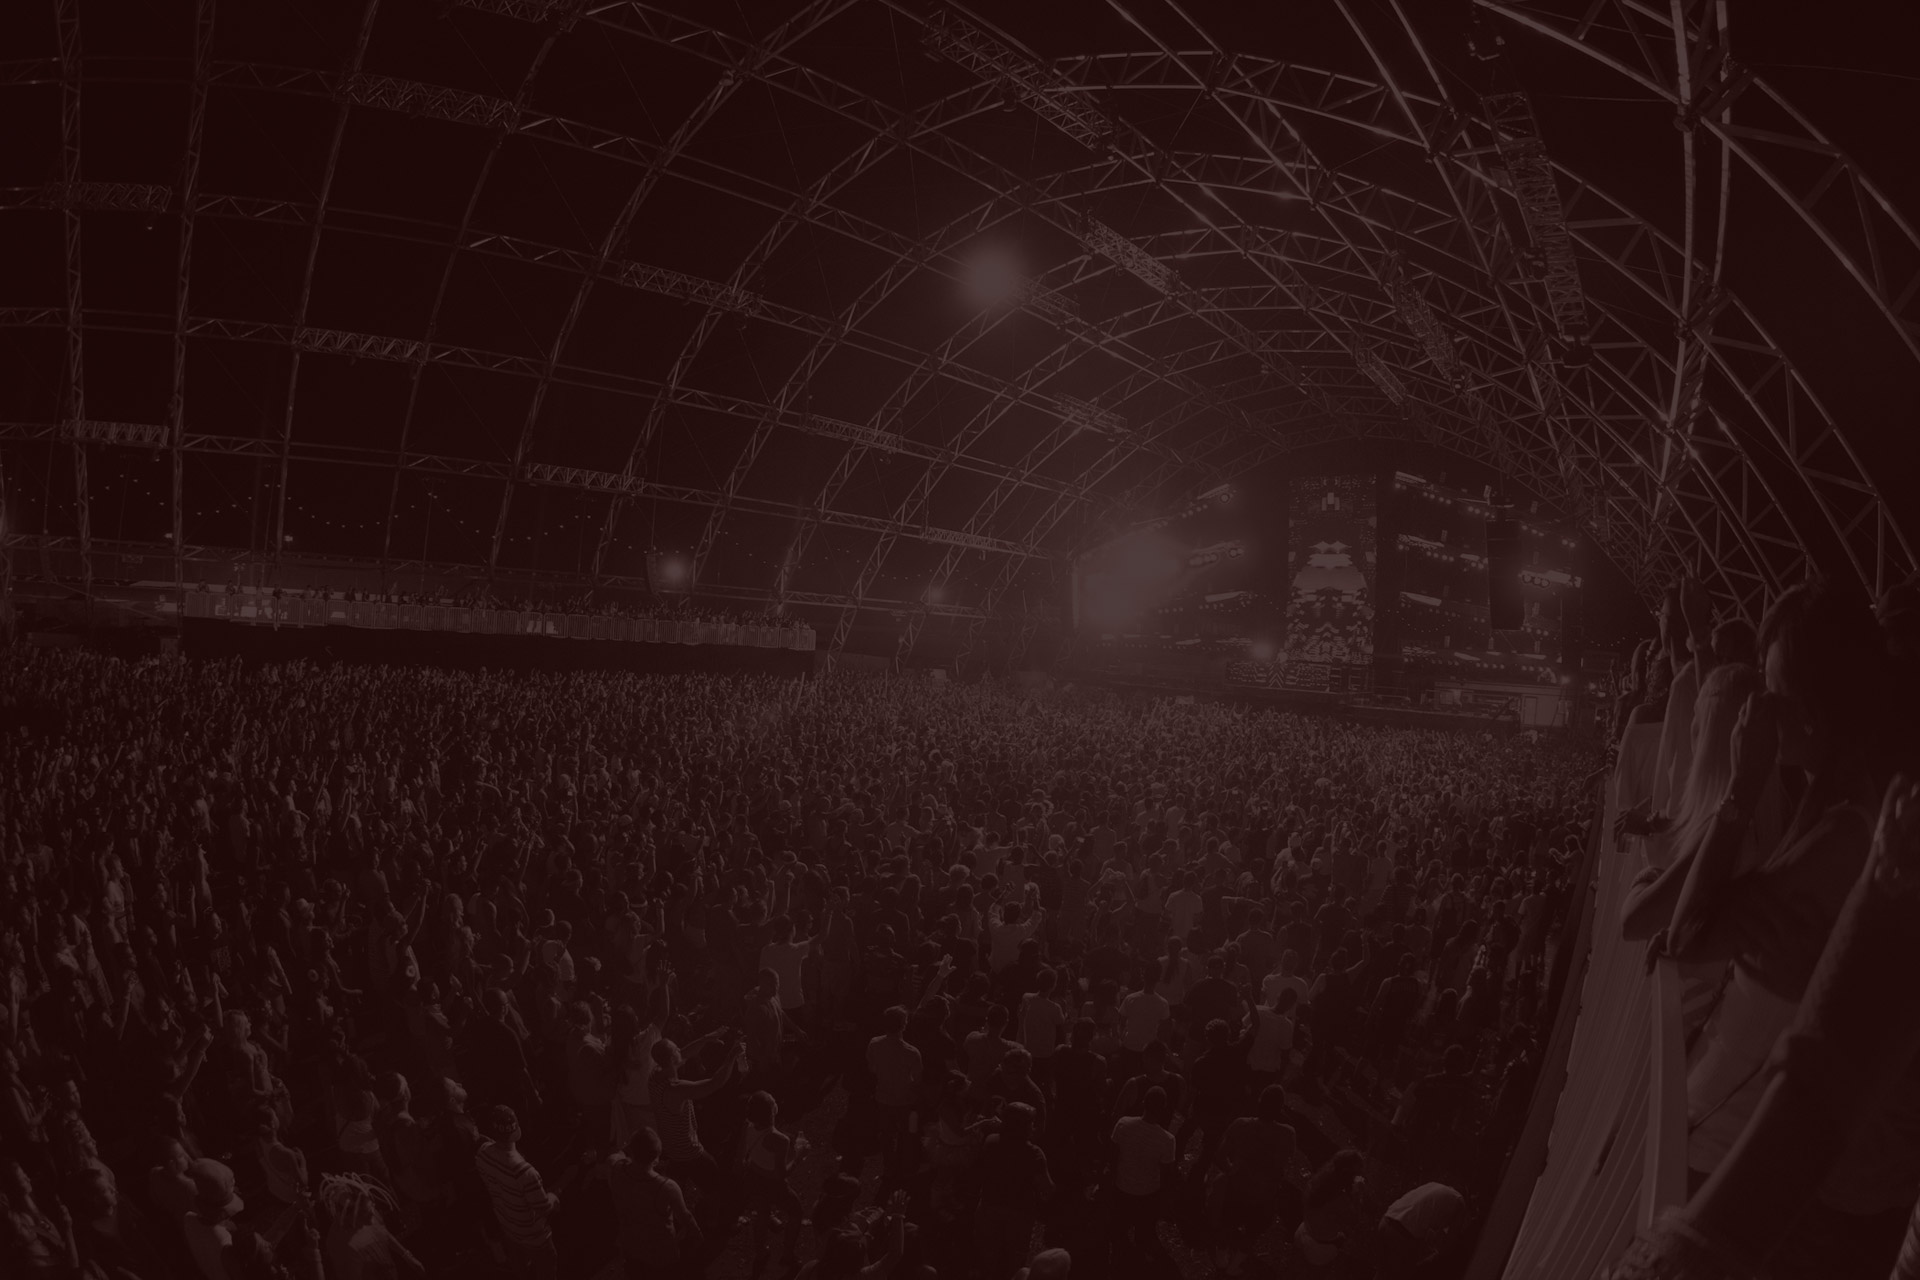
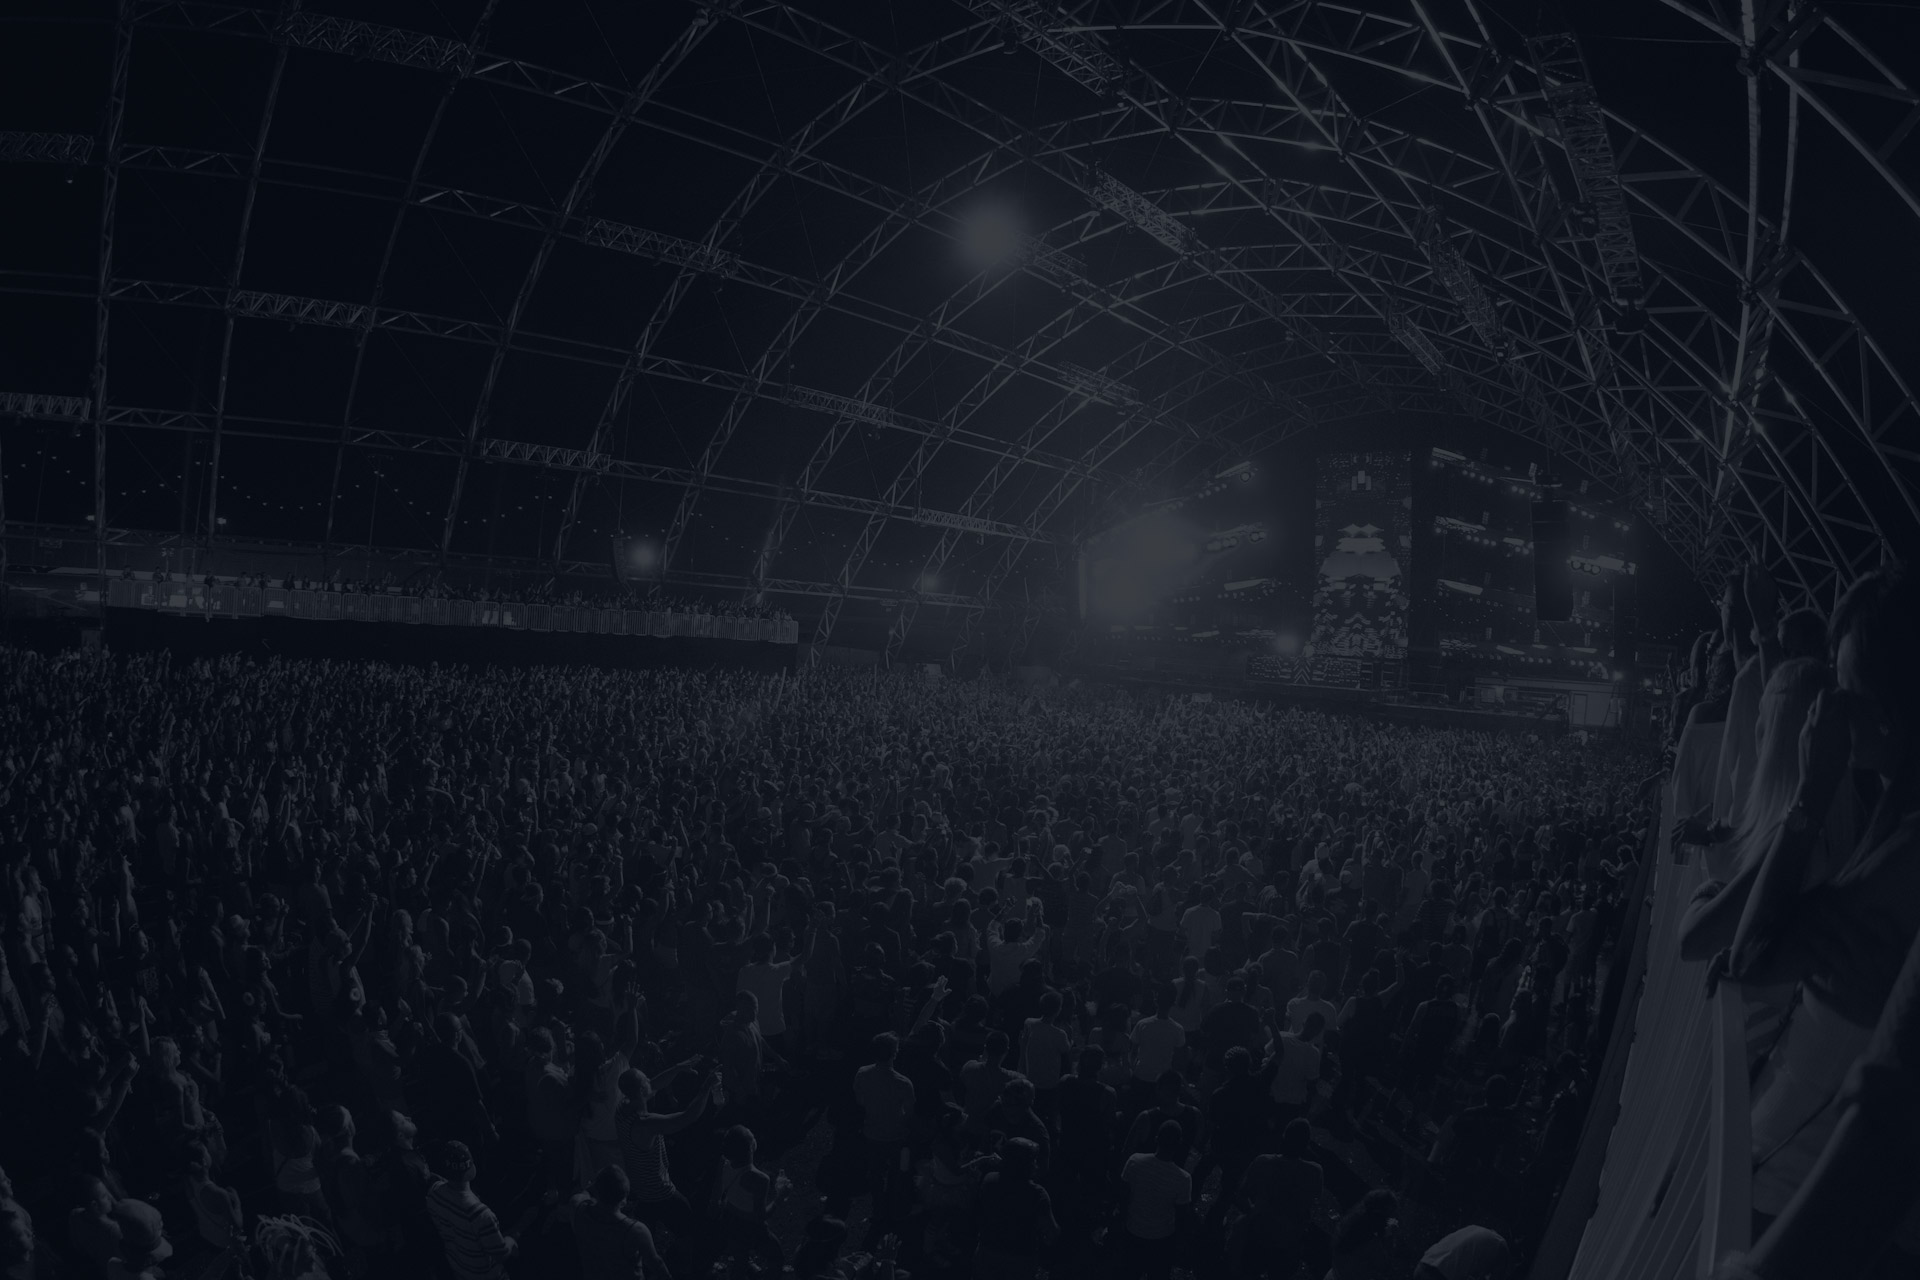
Some color changes to EPK

diff --git a/css/style.css b/css/style.css
@@ -119,7 +119,7 @@ font-size: 40px;
 	font-weight: 100;
 }
 .epk .epk_lower .epk_support {
-	background: #ebcb6a;
+	background: #ecc817;
 	padding: 40px;
 }
 .epk .epk_lower .epk_support h3 {
@@ -132,7 +132,7 @@ font-size: 40px;
 }
 .epk .epk_lower .epk_heads {
 	padding: 60px 0px;
-	background: rgba(46,16,14,0.8);
+	background: rgba(7,12,19,0.8);
 }
 .epk .epk_lower .epk_disco {
 	background: url(../images/epk/epk_disco_bg.jpg);
